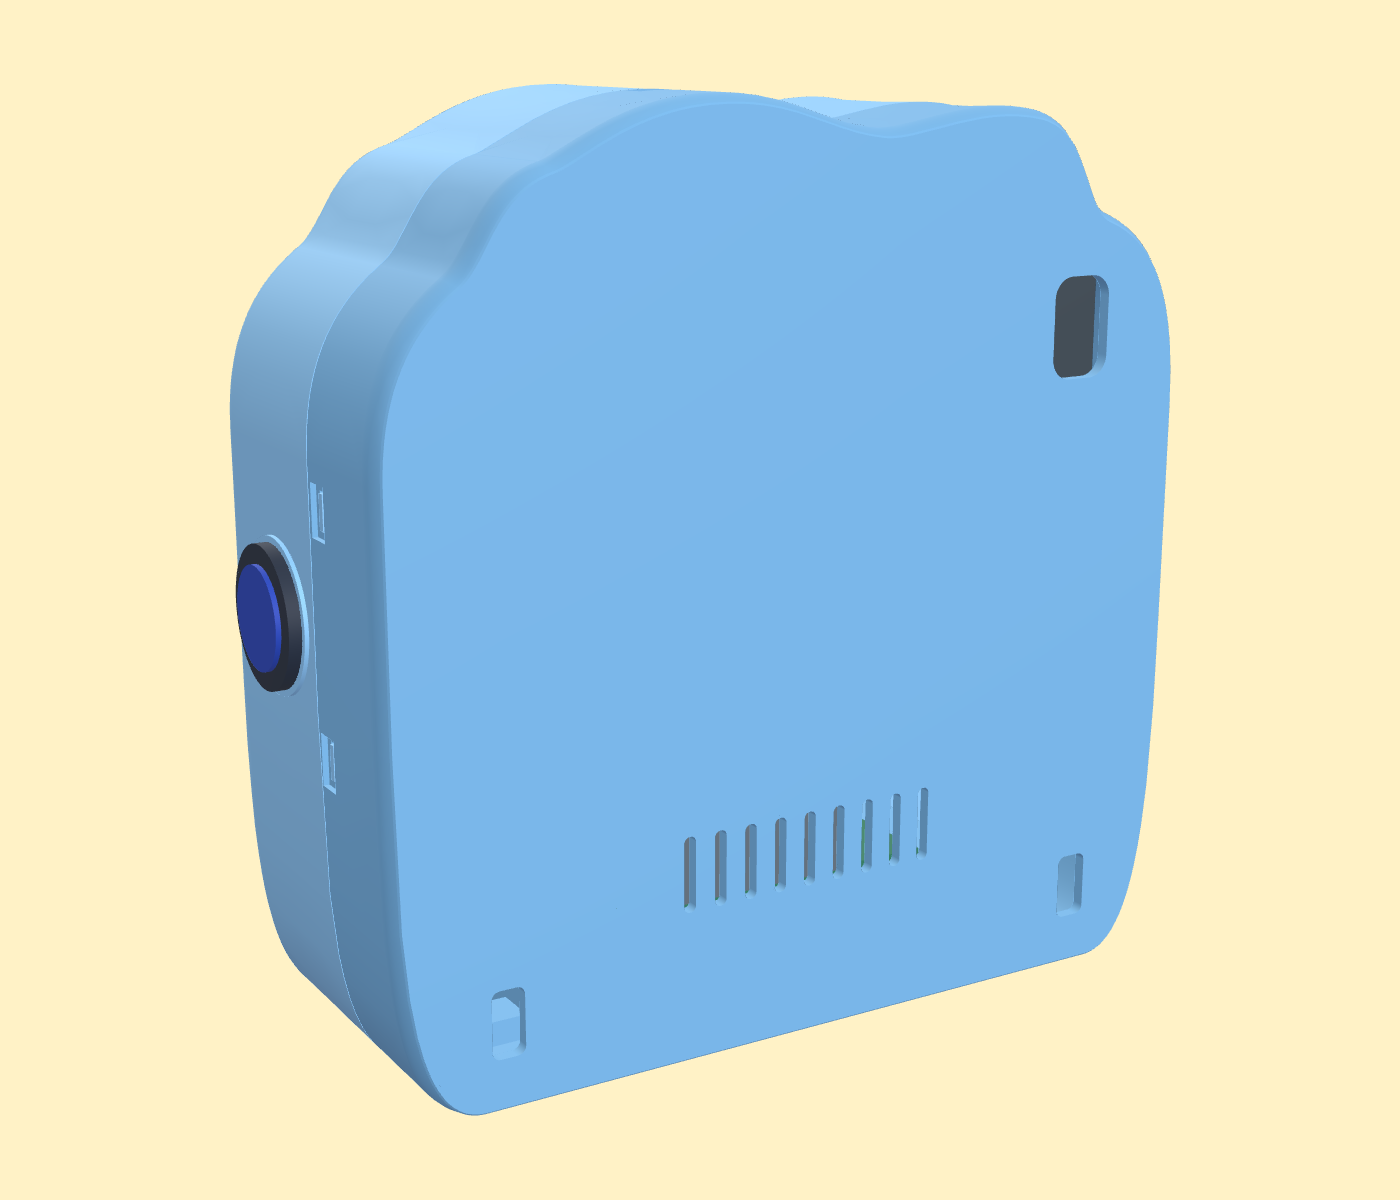
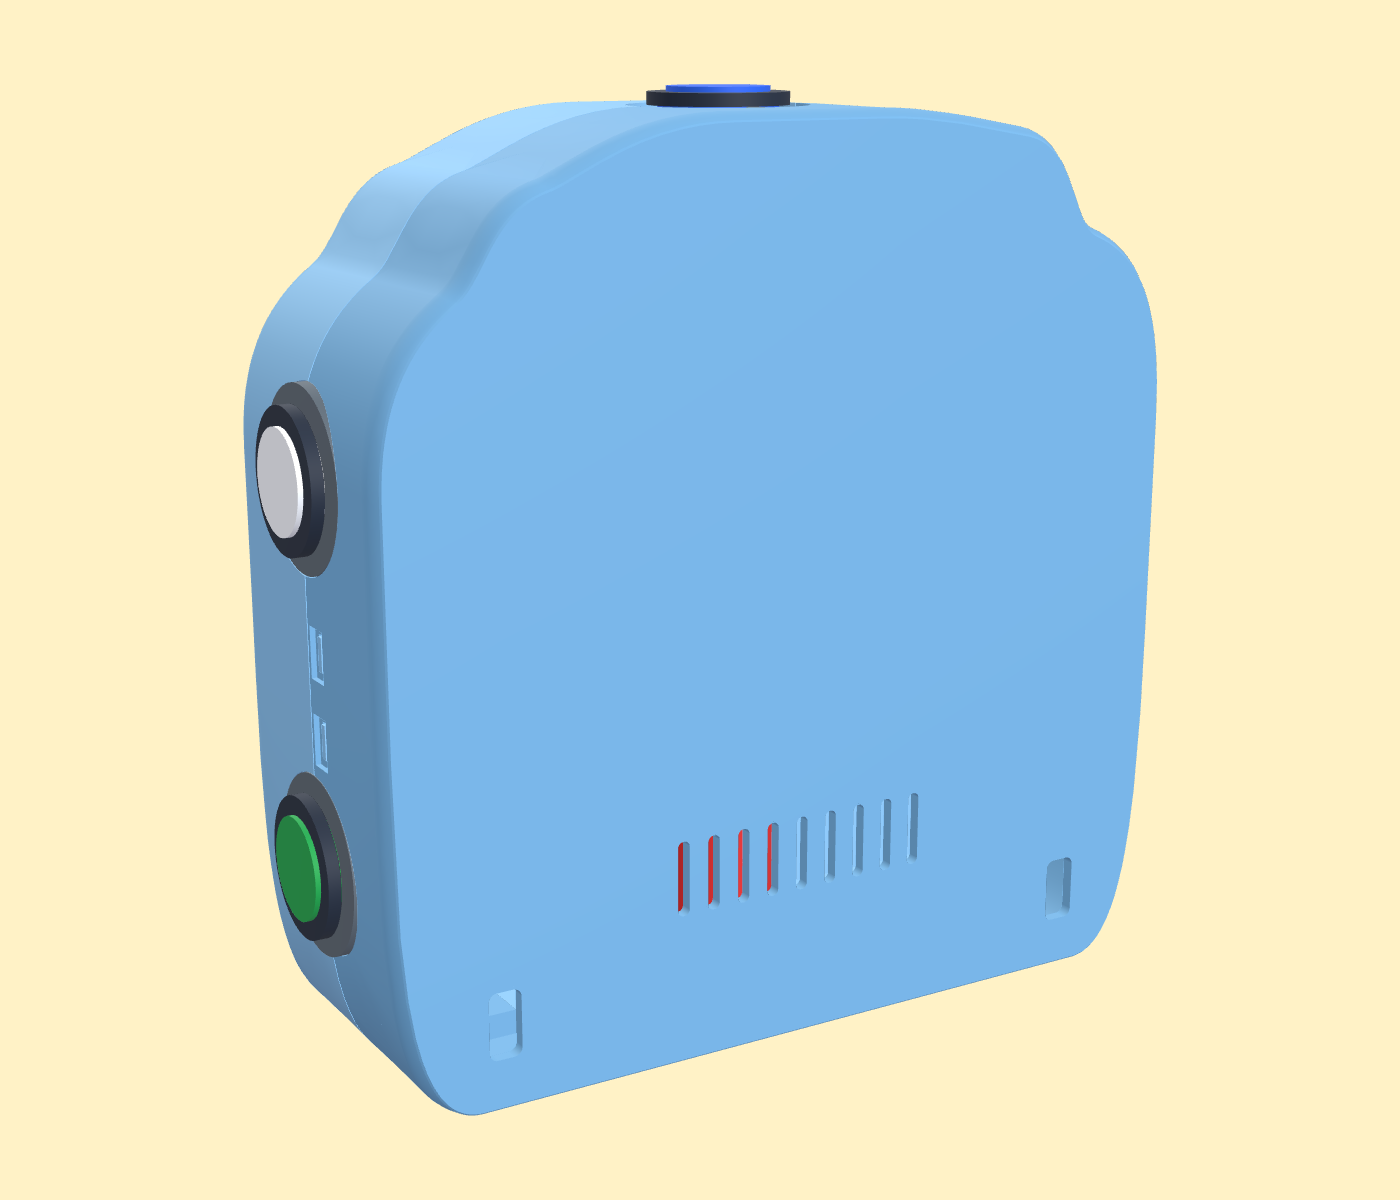
feat: update site with new project

diff --git a/web/i18n.js b/web/i18n.js
@@ -19,6 +19,8 @@ const glossary = {
   'Arcade Push Button 33mm · Right (White)': 'Przycisk arcade 33 mm · Prawy (Biały)',
   'Arcade Push Button 33mm · Side Left (Green)': 'Przycisk arcade 33 mm · Boczny lewy (Zielony)',
   'Arcade Push Button 33mm · Side Right (Blue)': 'Przycisk arcade 33 mm · Boczny prawy (Niebieski)',
+  'Arcade Push Button 33mm · Right Lower (Yellow)': 'Przycisk arcade 33 mm · Dolny prawy (Żółty)',
+  '5 × Arcade Push Buttons (33 mm)': '5 × Przyciski arcade (33 mm)',
   '6 × Arcade Push Buttons (33 mm)': '6 × Przyciski arcade (33 mm)',
   'Top · GPIO 5 (Pin 29)': 'Góra · GPIO 5 (Pin 29)',
   'Bottom · GPIO 6 (Pin 31)': 'Dół · GPIO 6 (Pin 31)',
@@ -149,17 +151,17 @@ export const messages = {
     'nav.oprogramowanie': 'Software',
     'nav.inne': 'Other',
     'card.obudowa.title': 'Enclosure',
-    'card.obudowa.desc': 'Two craft worlds: a pastel 3D-printed cloud with 6 arcade buttons or a warm birch plywood case. STL, 3MF and BREP files and 1:1 cutting plans.',
+    'card.obudowa.desc': 'Two craft worlds: a pastel 3D-printed cloud with 5 arcade buttons or a warm birch plywood case. STL, 3MF and BREP files and 1:1 cutting plans.',
     'card.obudowa.btn': 'Explore enclosures',
     'card.obudowa.alt1': '3D printed cloud enclosure',
     'card.obudowa.alt2': 'Plywood box enclosure',
     'card.elektronika.title': 'Electronics',
-    'card.elektronika.desc': 'Direct GPIO connections on Raspberry Pi 3 for 6 arcade buttons, SPI screen, and I²S amplifier. Complete schematics and interactive wiring atlas.',
+    'card.elektronika.desc': 'Direct GPIO connections on Raspberry Pi 3 for 5 arcade buttons, SPI screen, and I²S amplifier. Complete schematics and interactive wiring atlas.',
     'card.elektronika.btn': 'Explore electronics',
     'card.elektronika.alt1': 'Complete wiring schematic',
     'card.elektronika.alt2': 'Wiring connections',
     'card.oprogramowanie.title': 'Software',
-    'card.oprogramowanie.desc': 'Software for the 6 arcade button setup is in progress. The working simulator, event loop, and architecture from v1 can be explored in the v1 snapshot.',
+    'card.oprogramowanie.desc': 'Software for the 5 arcade button setup is in progress. The working simulator, event loop, and architecture from v1 can be explored in the v1 snapshot.',
     'card.oprogramowanie.btn': 'Explore software',
     'card.oprogramowanie.alt2': 'Software architecture diagram',
     'card.inne.title': 'Other',
@@ -193,19 +195,19 @@ export const messages = {
     'version.btnAria': 'Select project version',
     'version.current': 'Version 2',
     'version.v2Title': 'Alfa v2 (Current)',
-    'version.v2Desc': '6 arcade buttons, Raspberry Pi 3',
+    'version.v2Desc': '5 arcade buttons, Raspberry Pi 3',
     'version.v1Title': 'Alfa v1 (Classic)',
     'version.v1Desc': '5-button keypad, RP2040, PCB',
     'version.v1href': './v1/en/',
     'wip.pcb.badge': 'VERSION 2 · IN PROGRESS',
     'wip.pcb.title': 'Dedicated PCB Shield v2',
-    'wip.pcb.desc': 'The dedicated PCB shield for Version 2 (Raspberry Pi 3 with 6 arcade buttons, direct JST connectors, and integrated I²S DAC) is in progress and will be developed in a future update. In Version 2, electronics connect directly to the Raspberry Pi 3 GPIO header without requiring an ADC or custom PCB.',
+    'wip.pcb.desc': 'The dedicated PCB shield for Version 2 (Raspberry Pi 3 with 5 arcade buttons, direct JST connectors, and integrated I²S DAC) is in progress and will be developed in a future update. In Version 2, electronics connect directly to the Raspberry Pi 3 GPIO header without requiring an ADC or custom PCB.',
     'wip.pcb.v1note': 'The complete Prototype A shield design from Version 1 (supporting the 5-analog key divider and ADS1115 ADC) is available in the v1 snapshot:',
     'wip.pcb.v1href': './v1/en/#pcb',
     'wip.btn.v1pcb': 'View v1 Prototype A Shield',
     'wip.sw.badge': 'VERSION 2 · IN PROGRESS',
-    'wip.sw.title': 'v2 Software for 6 Arcade Buttons',
-    'wip.sw.desc': 'The Python application for Raspberry Pi 3 is being adapted for native digital GPIO input from the 6 arcade buttons (Top, Bottom, Left, Right, Side Left, Side Right). The software suite and dedicated shield will be completed later.',
+    'wip.sw.title': 'v2 Software for 5 Arcade Buttons',
+    'wip.sw.desc': 'The Python application for Raspberry Pi 3 is being adapted for native digital GPIO input from the 5 arcade buttons (Top, Bottom, Left, Right, Right Lower). The software suite and dedicated shield will be completed later.',
     'wip.sw.v1note': 'The fully working interactive 32-letter learning simulator, sound effects, and complete software architecture from v1 are preserved in the v1 snapshot:',
     'wip.sw.v1href': './v1/en/#oprogramowanie',
     'wip.btn.v1sw': 'Explore v1 simulator & code',
@@ -225,7 +227,7 @@ export const messages = {
     'cloud.h2': 'Cloud radio.',
     'cloud.kicker': '01 / 3D PRINT',
     'cloud.h3': 'Two shells. One little cloud.',
-    'cloud.lead': 'Two shells connect with bottom locating tabs and releasable snaps. The power bank lies flat at the bottom, with the Raspberry Pi horizontal on the shelf above. The slimmer cloud is 86 mm deep; unclip the front for access.',
+    'cloud.lead': 'Two shells connect with bottom locating tabs and releasable snaps. The power bank lies horizontally at the bottom, with the Raspberry Pi horizontal on the shelf above. The slim cloud is 78 mm deep (39 mm / 39 mm equal split); unclip the front for access.',
     'cloud.modeLabel': 'Assembly view',
     'cloud.mode.assembled': 'Assembled',
     'cloud.mode.exploded': 'Exploded',
@@ -389,7 +391,7 @@ export const messages = {
     'hw.trace': 'Trace wire {id}',
     'hw.count': '{shown} / {total} connections',
     'controller.pi.title': 'Raspberry Pi 3',
-    'controller.pi.description': 'The active Linux controller. Inspect every display, audio, 6 arcade push buttons, and power connection.',
+    'controller.pi.description': 'The active Linux controller. Inspect every display, audio, 5 arcade push buttons, and power connection.',
     'controller.pico.title': 'Pico 2 WH',
     'controller.pico.description': 'The same peripherals, with the Pico physical pin and GP assignments shown at each controller connection.',
     'wiring.caption.pi': 'Raspberry Pi 3 wiring · controller numbers are physical header pins.',
@@ -597,17 +599,17 @@ const polish = {
   'nav.oprogramowanie': 'Oprogramowanie',
   'nav.inne': 'Inne',
   'card.obudowa.title': 'Obudowa',
-  'card.obudowa.desc': 'Dwa światy rzemiosła: pastelowa chmurka z druku 3D z 6 przyciskami arcade lub ciepła obudowa ze sklejki brzozowej. Pliki STL, 3MF i BREP i plany 1:1.',
+  'card.obudowa.desc': 'Dwa światy rzemiosła: pastelowa chmurka z druku 3D z 5 przyciskami arcade lub ciepła obudowa ze sklejki brzozowej. Pliki STL, 3MF i BREP i plany 1:1.',
   'card.obudowa.btn': 'Odkryj obudowy',
   'card.obudowa.alt1': 'Druk 3D obudowy chmurki',
   'card.obudowa.alt2': 'Obudowa skrzynki ze sklejki',
   'card.elektronika.title': 'Elektronika',
-  'card.elektronika.desc': 'Bezpośrednie połączenia 6 przycisków arcade do pinów GPIO Raspberry Pi 3, ekran SPI oraz wzmacniacz I²S. Schematy ideowe i interaktywny atlas okablowania.',
+  'card.elektronika.desc': 'Bezpośrednie połączenia 5 przycisków arcade do pinów GPIO Raspberry Pi 3, ekran SPI oraz wzmacniacz I²S. Schematy ideowe i interaktywny atlas okablowania.',
   'card.elektronika.btn': 'Zobacz elektronikę',
   'card.elektronika.alt1': 'Kompletny schemat ideowy połączeń elektrycznych',
   'card.elektronika.alt2': 'Połączenia przewodów',
   'card.oprogramowanie.title': 'Oprogramowanie',
-  'card.oprogramowanie.desc': 'Oprogramowanie dla konfiguracji z 6 przyciskami arcade jest w przygotowaniu. Działający symulator i architekturę z wersji v1 można obejrzeć w archiwum v1.',
+  'card.oprogramowanie.desc': 'Oprogramowanie dla konfiguracji z 5 przyciskami arcade jest w przygotowaniu. Działający symulator i architekturę z wersji v1 można obejrzeć w archiwum v1.',
   'card.oprogramowanie.btn': 'Poznaj oprogramowanie',
   'card.oprogramowanie.alt2': 'Diagram architektury oprogramowania',
   'card.inne.title': 'Inne',
@@ -652,7 +654,7 @@ const polish = {
   'cloud.h2': 'Radio-chmurka.',
   'cloud.kicker': '01 / DRUK 3D',
   'cloud.h3': 'Dwie skorupy. Jedna mała chmurka.',
-  'cloud.lead': 'Dwie skorupy łączą się dolnymi językami ustalającymi i zwalnianymi zatrzaskami. Powerbank leży płasko na dole, a Raspberry Pi poziomo na półce nad nim. Smuklejsza chmurka ma 86 mm głębokości; dostęp do wnętrza uzyskasz po odpięciu przodu.',
+  'cloud.lead': 'Dwie skorupy łączą się dolnymi językami ustalającymi i zwalnianymi zatrzaskami. Powerbank leży poziomo na dole, a Raspberry Pi poziomo na półce nad nim. Smuklejsza chmurka ma 78 mm głębokości (równe połówki 39 mm / 39 mm); dostęp do wnętrza uzyskasz po odpięciu przodu.',
   'cloud.modeLabel': 'Widok złożenia',
   'cloud.mode.assembled': 'Złożone',
   'cloud.mode.exploded': 'Rozstrzelone',
@@ -813,7 +815,7 @@ const polish = {
   'hw.trace': 'Śledź przewód {id}',
   'hw.count': '{shown} / {total} połączeń',
   'controller.pi.title': 'Raspberry Pi 3',
-  'controller.pi.description': 'Działający sterownik linuksowy. Obejrzyj każde połączenie wyświetlacza, dźwięku, 6 przycisków arcade i zasilania.',
+  'controller.pi.description': 'Działający sterownik linuksowy. Obejrzyj każde połączenie wyświetlacza, dźwięku, 5 przycisków arcade i zasilania.',
   'controller.pico.title': 'Pico 2 WH',
   'controller.pico.description': 'Te same peryferia, z fizycznym pinem Pico i przypisaniem GP przy każdym połączeniu sterownika.',
   'wiring.caption.pi': 'Okablowanie Raspberry Pi 3 · numery sterownika to fizyczne piny złącza.',
@@ -1046,14 +1048,14 @@ for (const [id, [plName, plFn, enFn]] of Object.entries(items)) {
 
 const materials = {
   '3d-print': {
-    en: ['PRINT PREPARATION', 'Two PETG shells', 'PETG · 86 mm deep', 'The rear includes the battery cradle and horizontal Pi shelf. Final filament mass and supports depend on your slicer profile.', [
+    en: ['PRINT PREPARATION', 'Two PETG shells', 'PETG · 78 mm deep', 'The rear includes the battery cradle and horizontal Pi shelf. Final filament mass and supports depend on your slicer profile.', [
       ['Front shell (F-00)', '1 part', 'Five snaps and two locating tongues'],
       ['Rear shell (R-00)', '1 part', 'Integral cradle and Pi shelf'],
       ['Case joint', 'No screws', 'Insert lower tabs, pivot and snap closed'],
       ['Build plate', '220 × 220 mm', 'Ender 235 mm plate; 2 mm brim included'],
       ['Filament and supports', 'Check slicer', 'PETG, 0.2 mm layers; slice before printing'],
     ]],
-    pl: ['PRZYGOTOWANIE DRUKU', 'Dwie skorupy PETG', 'PETG · głębokość 86 mm', 'Tył zawiera kołyskę baterii i półkę pod poziome Raspberry Pi. Masa filamentu i podpory zależą od profilu slicera.', [
+    pl: ['PRZYGOTOWANIE DRUKU', 'Dwie skorupy PETG', 'PETG · głębokość 78 mm', 'Tył zawiera kołyskę baterii i półkę pod poziome Raspberry Pi. Masa filamentu i podpory zależą od profilu slicera.', [
       ['Skorupa przednia (F-00)', '1 część', 'Pięć zatrzasków i dwa języki ustalające'],
       ['Skorupa tylna (R-00)', '1 część', 'Zintegrowana kołyska i półka Pi'],
       ['Połączenie skorup', 'Bez śrub', 'Wsuń dolne języki, złóż i zatrzaśnij'],

diff --git a/web/index.html b/web/index.html
@@ -54,7 +54,7 @@
             <span class="v-num">v2</span>
             <div>
               <div data-i18n="version.v2Title">Alfa v2 (Bieżąca)</div>
-              <div class="v-label" data-i18n="version.v2Desc">6 przycisków arcade, Raspberry Pi 3</div>
+              <div class="v-label" data-i18n="version.v2Desc">5 przycisków arcade, Raspberry Pi 3</div>
             </div>
           </a>
           <a href="./v1/" class="version-item" role="menuitem" data-version="v1" data-i18n-href="version.v1href">
@@ -89,7 +89,7 @@
           </div>
           <div class="shade-card-body">
             <h3 data-i18n="card.obudowa.title">Obudowa</h3>
-            <p data-i18n="card.obudowa.desc">Dwa światy rzemiosła: pastelowa chmurka z druku 3D z 6 przyciskami arcade lub ciepła obudowa ze sklejki brzozowej. Pliki STL, 3MF, BREP i plany 1:1.</p>
+            <p data-i18n="card.obudowa.desc">Dwa światy rzemiosła: pastelowa chmurka z druku 3D z 5 przyciskami arcade lub ciepła obudowa ze sklejki brzozowej. Pliki STL, 3MF, BREP i plany 1:1.</p>
             <button type="button" class="card-nav-btn" data-target="obudowa"><span data-i18n="card.obudowa.btn">Odkryj obudowy</span> <span aria-hidden="true">→</span></button>
           </div>
         </article>
@@ -129,7 +129,7 @@
           </div>
           <div class="shade-card-body">
             <h3 data-i18n="card.oprogramowanie.title">Oprogramowanie</h3>
-            <p data-i18n="card.oprogramowanie.desc">Oprogramowanie dla konfiguracji z 6 przyciskami arcade jest w przygotowaniu. Działający symulator i architekturę z wersji v1 można obejrzeć w archiwum v1.</p>
+            <p data-i18n="card.oprogramowanie.desc">Oprogramowanie dla konfiguracji z 5 przyciskami arcade jest w przygotowaniu. Działający symulator i architekturę z wersji v1 można obejrzeć w archiwum v1.</p>
             <button type="button" class="card-nav-btn" data-target="oprogramowanie"><span data-i18n="card.oprogramowanie.btn">Poznaj oprogramowanie</span> <span aria-hidden="true">→</span></button>
           </div>
         </article>
@@ -159,7 +159,7 @@
       <!-- SUBVIEW 1: FILAMENT (DRUK 3D) -->
       <div id="subview-filament" class="subview-panel">
         <div class="section-bar"><div><p class="eyebrow" data-i18n="cloud.eyebrow">MAŁA CHMURKA, ZBUDOWANA, BY TRZYMAĆ.</p><h2 data-i18n="cloud.h2">Radio-chmurka.</h2></div><span id="cloud-revision" class="prototype-badge">PETG / V2 ARCADE</span></div>
-        <div class="scene-layout"><div id="print-slot" class="scene-slot"></div><aside class="inspector"><span class="section-number" data-i18n="cloud.kicker">01 / DRUK 3D</span><h3 data-i18n="cloud.h3">Dwie skorupy. Jedna mała chmurka.</h3><p data-i18n="cloud.lead">Dwie skorupy łączą się dolnymi językami ustalającymi i zwalnianymi zatrzaskami. Powerbank leży płasko na dole, a Raspberry Pi poziomo na półce nad nim. Smuklejsza chmurka ma 86 mm głębokości; dostęp do wnętrza uzyskasz po odpięciu przodu.</p><dl id="cloud-facts" class="facts"></dl>
+        <div class="scene-layout"><div id="print-slot" class="scene-slot"></div><aside class="inspector"><span class="section-number" data-i18n="cloud.kicker">01 / DRUK 3D</span><h3 data-i18n="cloud.h3">Dwie skorupy. Jedna mała chmurka.</h3><p data-i18n="cloud.lead">Dwie skorupy łączą się dolnymi językami ustalającymi i zwalnianymi zatrzaskami. Powerbank leży poziomo na dole, a Raspberry Pi poziomo na półce nad nim. Smuklejsza chmurka ma 78 mm głębokości (równe połówki 39 mm / 39 mm); dostęp do wnętrza uzyskasz po odpięciu przodu.</p><dl id="cloud-facts" class="facts"></dl>
           <span class="field-label" data-i18n="cloud.modeLabel">Widok złożenia</span>
           <div class="pill-group" data-for="cloud-mode" role="group" aria-label="Widok złożenia" data-i18n-aria-label="cloud.modeLabel">
             <button type="button" class="pill-btn active" data-value="assembled" data-i18n="cloud.mode.assembled">Złożone</button>
@@ -208,7 +208,7 @@
                 <span class="section-number" id="material-section-number" data-i18n="material.3d-print.section">PRZYGOTOWANIE DRUKU</span>
                 <h4 id="material-title" data-i18n="material.3d-print.title">Dwie skorupy PETG</h4>
               </div>
-              <span class="filament-badge" id="material-badge" data-i18n="material.3d-print.badge">PETG · głębokość 86 mm</span>
+              <span class="filament-badge" id="material-badge" data-i18n="material.3d-print.badge">PETG · głębokość 78 mm</span>
             </div>
             <p class="filament-desc" id="material-desc" data-i18n="material.3d-print.desc">Tył zawiera kołyskę baterii i półkę pod poziome Raspberry Pi. Masa filamentu i podpory zależą od profilu slicera.</p>
             <div class="filament-stats" id="material-stats"></div>

diff --git a/web/cloud/pricing.js b/web/cloud/pricing.js
@@ -50,8 +50,8 @@ export const PRICING_ITEMS = [
   },
   {
     id: 'periph-arcade-buttons',
-    name: '6 × Arcade Push Button 33mm (SPST)',
-    function: 'Six durable arcade push buttons with microswitches wired directly to Pi GPIO',
+    name: '5 × Arcade Push Button 33mm (SPST)',
+    function: 'Five durable arcade push buttons with microswitches wired directly to Pi GPIO',
     priceText: '~47,31 zł (7,60–8,10 zł / pcs)',
     min: 47.31,
     max: 48,
@@ -218,7 +218,7 @@ export const MATERIAL_SPECS = {
   '3d-print': {
     sectionNumber: 'PRINT PREPARATION',
     title: 'Two PETG shells',
-    badge: 'PETG · 86 mm deep',
+    badge: 'PETG · 78 mm deep',
     desc: 'The rear includes the battery cradle and horizontal Pi shelf. Final filament mass and supports depend on your slicer profile.',
     stats: [
       { dt: 'Front shell (F-00)', dd: '1 part', small: 'Five snaps and two locating tongues' },

diff --git a/web/cloud/scene.js b/web/cloud/scene.js
@@ -34,10 +34,11 @@ export function createCloudScene() {
     for(const mesh of portOutlines)mesh.visible=showClearances;
   }
   const readyPromise = (async () => {
-    const response = await fetch('./cloud/manifest.json');
+    const response = await fetch('./cloud/manifest.json', { cache: 'no-cache' });
     if (!response.ok) throw new Error(`Cloud specifications returned HTTP ${response.status}`);
     Object.assign(data, await response.json());
-    const gltf = await new GLTFLoader().loadAsync(new URL('./cloud/cloud-radio.glb', document.baseURI).href);
+    const glbUrl = new URL(`./cloud/cloud-radio.glb?v=${encodeURIComponent(data.revision || 'v3')}`, document.baseURI).href;
+    const gltf = await new GLTFLoader().loadAsync(glbUrl);
     const model = gltf.scene;
     // build123d glTF uses metres and the CAD exporter rotates its frame.
     model.rotation.x = Math.PI / 2;

diff --git a/web/cloud/stl-viewer.js b/web/cloud/stl-viewer.js
@@ -113,7 +113,7 @@ export function createStlViewer(container, options = {}) {
     let geometry = geometryCache.get(partId);
     if (!geometry) {
       try {
-        const url = new URL(`./cloud/${STL_PARTS[partId].file}`, document.baseURI).href;
+        const url = new URL(`./cloud/${STL_PARTS[partId].file}?v=v3`, document.baseURI).href;
         geometry = await loader.loadAsync(url);
         geometry.computeVertexNormals();
         geometry.center();
